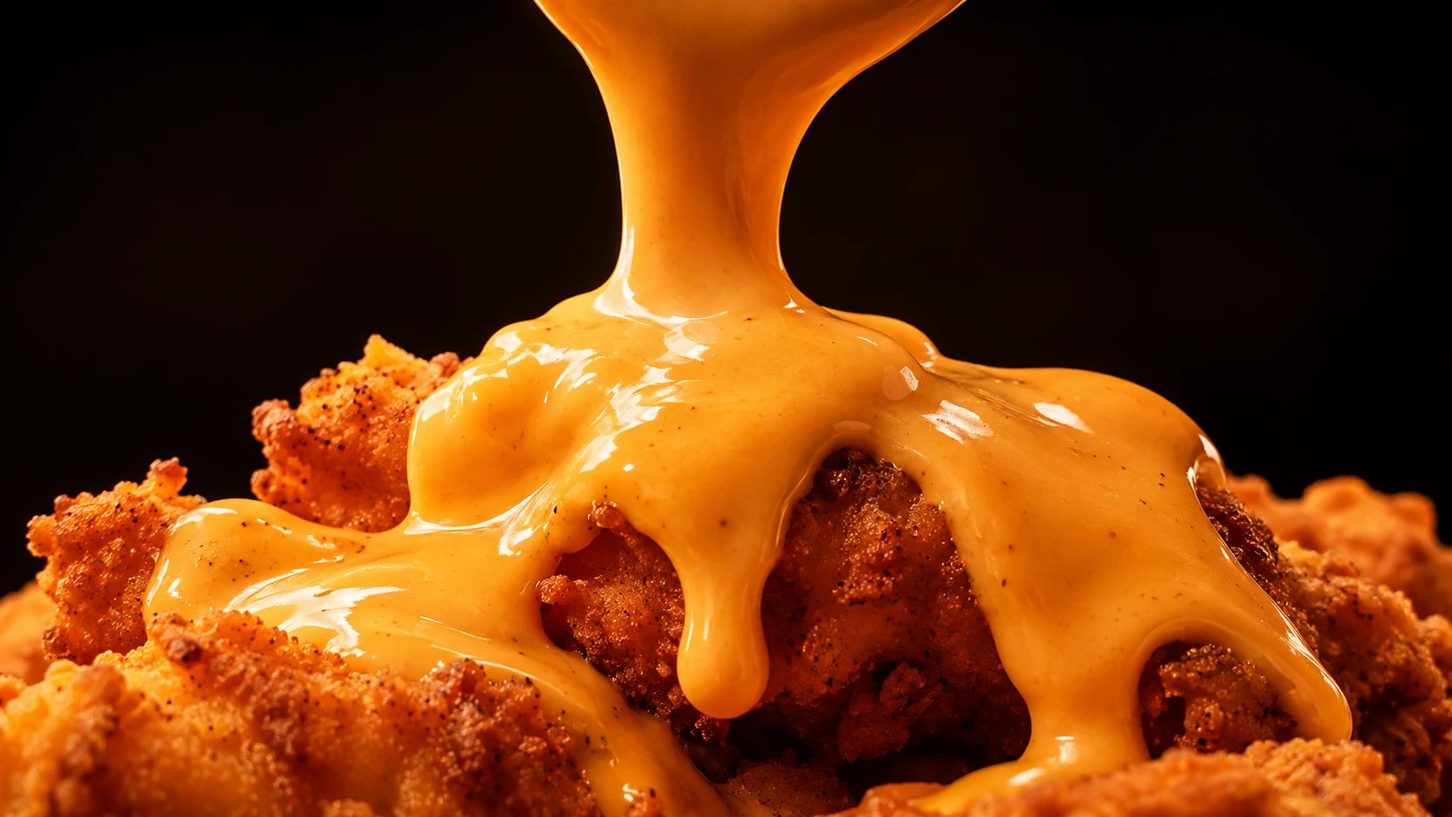
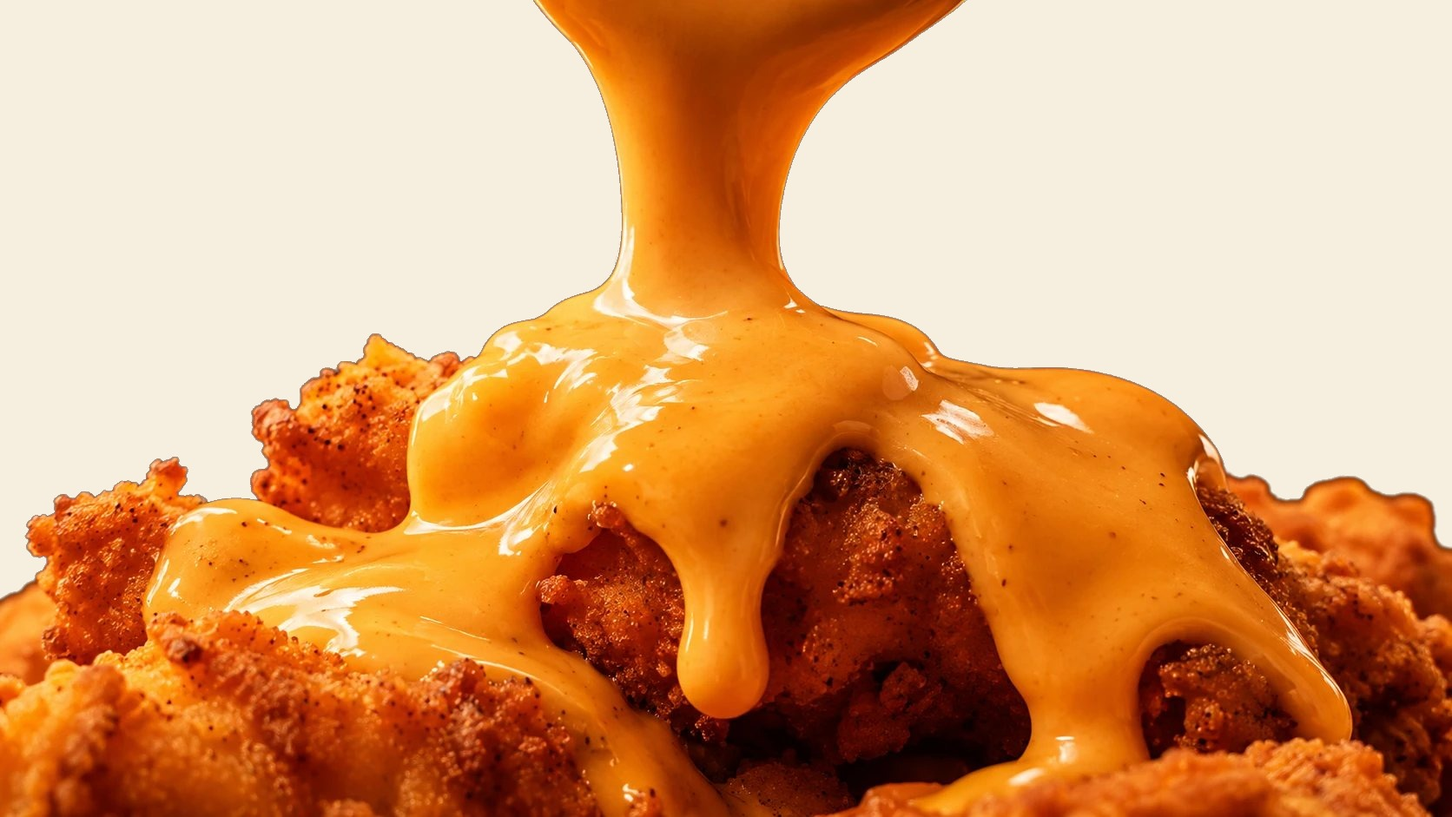
Cream hero background, Blandville teaser with video slot, comparison flipped with bottle images
Claude-Session: https://claude.ai/code/session_01N4eMp3pC1viHzLhvwcyCiG

diff --git a/index.html b/index.html
@@ -58,19 +58,28 @@ img{max-width:100%}
 .hdr .pill{min-height:44px;padding:0 20px;font-size:15px}
 @media (max-width:640px){.hdr nav{display:none}}
 /* hero */
-.hero{position:relative}
+.hero{position:relative;background:var(--cream)}
 .hero .bgw{position:absolute;inset:0;overflow:hidden}
 .hero .bgimg{position:absolute;inset:0;width:100%;height:100%;object-fit:cover;object-position:62% 72%}
-.hero .shade{position:absolute;inset:0;background:linear-gradient(90deg,rgba(20,20,20,.97) 0%,rgba(20,20,20,.88) 32%,rgba(20,20,20,.45) 55%,rgba(20,20,20,0) 72%),linear-gradient(180deg,rgba(20,20,20,.45) 0%,rgba(20,20,20,0) 20%,rgba(20,20,20,0) 78%,rgba(20,20,20,.9) 100%)}
+.hero .shade{position:absolute;inset:0}
+@media (min-width:861px){.hero .bgimg{left:auto;right:0;width:74%;object-position:30% 70%;-webkit-mask-image:linear-gradient(90deg,transparent 0,#000 24%);mask-image:linear-gradient(90deg,transparent 0,#000 24%)}}
 .hero .in{position:relative;z-index:1;display:grid;grid-template-columns:minmax(0,1.3fr) minmax(0,.7fr);align-items:center;gap:24px;min-height:clamp(640px,86vh,820px);padding-top:56px;padding-bottom:56px}
 .hero .copy{display:flex;flex-direction:column;align-items:flex-start;gap:20px}
-.hero h1{font-size:clamp(38px,4.1vw,64px);color:var(--cream);text-shadow:0 3px 0 rgba(90,40,8,.55),0 14px 40px rgba(0,0,0,.7)}
-.hero h1 .amb{color:var(--amber)}
+.hero h1,.dk .hero h1{font-size:clamp(38px,4.1vw,64px);color:var(--ink);text-shadow:none}
 .hero h1 .ln{white-space:nowrap}@media (max-width:860px){.hero h1 .ln{white-space:normal}}
-.hero .sub{margin:0;font-size:19px;line-height:1.5;color:var(--cream);max-width:36ch}
+.hero .sub{margin:0;font-size:19px;line-height:1.5;color:#2E2822;max-width:36ch}
+.hero .spec{color:rgba(20,20,20,.72)}
+.hero .ef input{background:rgba(255,251,243,.92);border-color:rgba(20,20,20,.22);color:var(--ink)}
+.hero .ef input::placeholder{color:rgba(20,20,20,.5)}
+.hero .err{color:#B3261E}
+.hero .micro{color:#5B5348}
+.hero .ok .okh,.hero .ok .q{color:var(--ink)}
+.hero .qs button{background:rgba(255,251,243,.92);border-color:rgba(20,20,20,.2);color:var(--ink)}
+.hero .qs button:hover{background:rgba(242,169,59,.2)}
+.hero .ok .done{color:#8A5300}
 .stage{position:relative;align-self:stretch;min-height:520px}
 .bw{position:absolute;left:50%;bottom:0;height:min(94%,640px);transform:translateX(-50%)}
-.bw .bottle{display:block;height:100%;width:auto;max-width:none;filter:drop-shadow(0 34px 40px rgba(0,0,0,.7)) drop-shadow(0 6px 10px rgba(0,0,0,.5))}
+.bw .bottle{display:block;height:100%;width:auto;max-width:none;filter:drop-shadow(0 30px 36px rgba(60,32,8,.38)) drop-shadow(0 6px 10px rgba(20,20,20,.3))}
 .stats{position:absolute;right:calc(100% - 70px);bottom:8%;display:flex;flex-direction:row-reverse;align-items:center;gap:10px;z-index:2}
 .stk{--s:clamp(132px,11vw,160px);flex:0 0 auto;position:relative;width:var(--s);height:var(--s);border-radius:50%;background:radial-gradient(circle at 35% 30%,#2A2433 0%,#15121C 70%);border:calc(var(--s)*.035) solid #F7832B;box-shadow:0 0 0 calc(var(--s)*.025) #15121C,0 0 0 calc(var(--s)*.055) #FFC23D,0 20px 50px rgba(0,0,0,.55);display:flex;flex-direction:column;align-items:center;justify-content:center;text-align:center;line-height:1;transform:rotate(-10deg)}
 .stk b{font-family:'Shrikhand',Georgia,serif;font-weight:400;font-size:calc(var(--s)*.34);color:#FFF8EE;text-shadow:calc(var(--s)*.018) calc(var(--s)*.018) 0 #D9401F}
@@ -100,9 +109,9 @@ img{max-width:100%}
 .ok .done{margin:0;font-size:17px;color:var(--amber);font-weight:600}
 @media (max-width:560px){.ef{flex-direction:column}.ef input{flex:0 0 auto;width:100%}.ef .pill{width:100%}.qs{grid-template-columns:1fr}}
 /* strip */
-.mq{overflow:hidden;background:var(--cream);color:var(--ink);white-space:nowrap;position:relative;z-index:2}
+.mq{overflow:hidden;background:var(--ink);color:var(--cream);white-space:nowrap;position:relative;z-index:2}
 .mq .t{display:inline-flex;padding:13px 0;animation:mq 46s linear infinite;font-size:15px;font-weight:500}
-.mq .t span{padding:0 18px}.mq .t span:before{content:"\2022";margin-right:18px;color:#c98316}
+.mq .t span{padding:0 18px}.mq .t span:before{content:"\2022";margin-right:18px;color:var(--amber)}
 @keyframes mq{from{transform:translateX(0)}to{transform:translateX(-50%)}}
 @media (prefers-reduced-motion:reduce){.mq .t{animation:none}}
 /* sections */
@@ -110,8 +119,13 @@ img{max-width:100%}
 .cr{background:var(--cream);color:var(--ink)}
 .cr .d,.dk .cr .d{color:var(--ink);text-shadow:none}
 .mark{white-space:nowrap;background:linear-gradient(180deg,transparent 58%,rgba(242,169,59,.75) 58%,rgba(242,169,59,.75) 92%,transparent 92%);padding:0 .06em}
-.cmp{display:grid;grid-template-columns:1fr 1fr;gap:14px;max-width:1040px;margin:clamp(32px,4vw,52px) auto 0}
-@media (max-width:760px){.cmp{grid-template-columns:1fr}}
+.cmp{display:grid;grid-template-columns:1fr 1fr;gap:clamp(14px,2vw,28px);max-width:1240px;margin:clamp(32px,4vw,52px) auto 0}
+.cg{display:flex;align-items:center;gap:clamp(12px,1.6vw,22px)}
+.cg .cc{flex:1;min-width:0}
+.cb{flex:0 0 auto;height:clamp(170px,16vw,240px);width:auto;max-width:none}
+.cb.ours{filter:drop-shadow(0 18px 22px rgba(60,32,8,.3))}
+.cb.theirs{height:clamp(140px,13vw,196px);opacity:.9}
+@media (max-width:760px){.cmp{grid-template-columns:1fr}.cb{height:130px}.cb.theirs{height:100px}.cc .big{font-size:44px}}
 .cc{border-radius:20px;padding:clamp(26px,3vw,40px);display:flex;flex-direction:column;gap:12px;min-height:clamp(0px,18vw,250px)}
 .cc .lb{font-size:16px;font-weight:600;letter-spacing:.02em}
 .cc .big{font-family:'Lilita One',system-ui,sans-serif;font-size:clamp(52px,6vw,84px);line-height:1}
@@ -122,6 +136,13 @@ img{max-width:100%}
 .cc.hero2 .lb{color:var(--amber)}
 .cc.hero2 .big{color:var(--amber)}
 .note{text-align:center;margin:18px 0 0;font-size:14.5px;color:#6E665B}
+/* blandville */
+.bvh{max-width:760px;margin:0 auto;text-align:center;display:flex;flex-direction:column;align-items:center;gap:18px}
+.bvh p{margin:0;font-size:19px;line-height:1.55;color:#3D362E;max-width:52ch}
+.vid{position:relative;max-width:1040px;margin:clamp(32px,4vw,52px) auto 0;aspect-ratio:16/9;border-radius:20px;overflow:hidden;background:var(--ink);box-shadow:0 0 0 2px var(--ink),0 28px 60px rgba(20,20,20,.25)}
+.vid img{display:block;width:100%;height:100%;object-fit:cover}
+.vtag{position:absolute;left:16px;bottom:16px;padding:9px 16px;border-radius:999px;background:rgba(20,20,20,.88);color:var(--cream);font-size:14.5px;font-weight:600}
+#faq{border-top:1px solid rgba(20,20,20,.1)}
 .gary{position:relative;overflow:hidden;background:var(--bg)}
 .gary .in{display:grid;grid-template-columns:minmax(0,1fr) minmax(0,1fr);align-items:center;gap:24px;min-height:clamp(320px,30vw,420px)}
 .gary .tx{display:flex;flex-direction:column;align-items:flex-start;gap:20px;position:relative;z-index:1}
@@ -154,7 +175,7 @@ img{max-width:100%}
 .legaldoc ul{padding-left:22px}
 @media (max-width:860px){
  .hero .in{grid-template-columns:1fr;align-items:start;min-height:0;padding-top:32px;padding-bottom:0;gap:8px}
- .hero .shade{background:linear-gradient(180deg,rgba(20,20,20,.94) 0%,rgba(20,20,20,.86) 52%,rgba(20,20,20,.35) 78%,rgba(20,20,20,.75) 100%)}
+ .hero .shade{background:linear-gradient(180deg,rgba(246,238,223,.96) 0%,rgba(246,238,223,.9) 52%,rgba(246,238,223,.3) 78%,rgba(246,238,223,0) 100%)}
  .stage{min-height:420px}
  .bw{left:60%;height:400px}
  .stats{right:calc(100% - 56px);bottom:6%;flex-direction:column;align-items:flex-end}
@@ -180,7 +201,7 @@ img{max-width:100%}
     <div class="bgw" aria-hidden="true"><img class="bgimg" src="/assets/hero.jpg" alt="" data-slot="hero.jpg"><div class="shade"></div></div>
     <div class="wrap in">
       <div class="copy">
-        <h1 id="h1" class="d"><span class="ln">Your favorite sauce.</span><br><span class="ln">Now with <span class="amb">70g of protein.</span></span></h1>
+        <h1 id="h1" class="d"><span class="ln">Your favorite sauce.</span><br><span class="ln">Now with <span class="mark">70g of protein.</span></span></h1>
         <p class="sub">Restaurant-style chicken sauce made with real honey. 7g protein per serving. Same dinner, more protein.</p>
         <p class="spec"><span>7g protein</span><span>120 calories</span><span>per serving</span></p>
         <div class="signup" data-source="hero" id="signup">
@@ -206,8 +227,8 @@ img{max-width:100%}
     <div class="wrap">
       <h2 id="cmp-h" class="d h2" style="text-align: center">Sauce just had a <span class="mark">glow-up.</span></h2>
       <div class="cmp">
-        <div class="cc muted"><span class="lb">Regular chicken sauce</span><span class="big">0g protein</span><p>Delicious. Contributes nothing.</p></div>
-        <div class="cc hero2"><span class="lb">Toon Sauce Gold Rush</span><span class="big">7g protein</span><p>Same taste. Actually pulls its weight.</p></div>
+        <div class="cg"><img class="cb ours" src="/assets/bottle.png" alt="Toon Sauce Gold Rush bottle" loading="lazy"><div class="cc hero2"><span class="lb">Toon Sauce Gold Rush</span><span class="big">7g protein</span><p>Same taste. Actually pulls its weight.</p></div></div>
+        <div class="cg"><div class="cc muted"><span class="lb">Regular chicken sauce</span><span class="big">0g protein</span><p>Delicious. Contributes nothing.</p></div><img class="cb theirs" src="/assets/other-sauce.png" alt="A plain bottle of regular chicken sauce" loading="lazy"></div>
       </div>
       <p class="note">Per serving.</p>
     </div>
@@ -221,6 +242,21 @@ img{max-width:100%}
         <h2 id="g-h" class="d h2">Every flavor has a Toon.</h2>
         <p>Gold Rush belongs to Gary, a very strong chicken who can&#8217;t say no to anything. His show drops with the sauce.</p>
         <a href="#signup" class="pill js-dibs">Get first dibs</a>
+      </div>
+    </div>
+  </section>
+
+  <!-- SECTION 3b: BLANDVILLE TEASER -->
+  <section id="blandville" class="cr sec" aria-labelledby="bv-h">
+    <div class="wrap">
+      <div class="bvh">
+        <h2 id="bv-h" class="d h2">Something&#8217;s coming out of <span class="mark">Blandville.</span></h2>
+        <p>A perfectly normal town where nothing happens. Gary lives there with his roommate Plain, a boiled chicken breast who has never been excited about anything. That&#8217;s about to change.</p>
+      </div>
+      <!-- VIDEO PLACEHOLDER: swap this block for the "Welcome to Blandville" embed (16:9) when it's produced -->
+      <div class="vid" data-slot="blandville-video">
+        <img src="/assets/blandville.webp" alt="The town of Blandville, illustrated" loading="lazy">
+        <span class="vtag">Episode 1 &#183; Coming soon</span>
       </div>
     </div>
   </section>

diff --git a/privacy.html b/privacy.html
@@ -58,19 +58,28 @@ img{max-width:100%}
 .hdr .pill{min-height:44px;padding:0 20px;font-size:15px}
 @media (max-width:640px){.hdr nav{display:none}}
 /* hero */
-.hero{position:relative}
+.hero{position:relative;background:var(--cream)}
 .hero .bgw{position:absolute;inset:0;overflow:hidden}
 .hero .bgimg{position:absolute;inset:0;width:100%;height:100%;object-fit:cover;object-position:62% 72%}
-.hero .shade{position:absolute;inset:0;background:linear-gradient(90deg,rgba(20,20,20,.97) 0%,rgba(20,20,20,.88) 32%,rgba(20,20,20,.45) 55%,rgba(20,20,20,0) 72%),linear-gradient(180deg,rgba(20,20,20,.45) 0%,rgba(20,20,20,0) 20%,rgba(20,20,20,0) 78%,rgba(20,20,20,.9) 100%)}
+.hero .shade{position:absolute;inset:0}
+@media (min-width:861px){.hero .bgimg{left:auto;right:0;width:74%;object-position:30% 70%;-webkit-mask-image:linear-gradient(90deg,transparent 0,#000 24%);mask-image:linear-gradient(90deg,transparent 0,#000 24%)}}
 .hero .in{position:relative;z-index:1;display:grid;grid-template-columns:minmax(0,1.3fr) minmax(0,.7fr);align-items:center;gap:24px;min-height:clamp(640px,86vh,820px);padding-top:56px;padding-bottom:56px}
 .hero .copy{display:flex;flex-direction:column;align-items:flex-start;gap:20px}
-.hero h1{font-size:clamp(38px,4.1vw,64px);color:var(--cream);text-shadow:0 3px 0 rgba(90,40,8,.55),0 14px 40px rgba(0,0,0,.7)}
-.hero h1 .amb{color:var(--amber)}
+.hero h1,.dk .hero h1{font-size:clamp(38px,4.1vw,64px);color:var(--ink);text-shadow:none}
 .hero h1 .ln{white-space:nowrap}@media (max-width:860px){.hero h1 .ln{white-space:normal}}
-.hero .sub{margin:0;font-size:19px;line-height:1.5;color:var(--cream);max-width:36ch}
+.hero .sub{margin:0;font-size:19px;line-height:1.5;color:#2E2822;max-width:36ch}
+.hero .spec{color:rgba(20,20,20,.72)}
+.hero .ef input{background:rgba(255,251,243,.92);border-color:rgba(20,20,20,.22);color:var(--ink)}
+.hero .ef input::placeholder{color:rgba(20,20,20,.5)}
+.hero .err{color:#B3261E}
+.hero .micro{color:#5B5348}
+.hero .ok .okh,.hero .ok .q{color:var(--ink)}
+.hero .qs button{background:rgba(255,251,243,.92);border-color:rgba(20,20,20,.2);color:var(--ink)}
+.hero .qs button:hover{background:rgba(242,169,59,.2)}
+.hero .ok .done{color:#8A5300}
 .stage{position:relative;align-self:stretch;min-height:520px}
 .bw{position:absolute;left:50%;bottom:0;height:min(94%,640px);transform:translateX(-50%)}
-.bw .bottle{display:block;height:100%;width:auto;max-width:none;filter:drop-shadow(0 34px 40px rgba(0,0,0,.7)) drop-shadow(0 6px 10px rgba(0,0,0,.5))}
+.bw .bottle{display:block;height:100%;width:auto;max-width:none;filter:drop-shadow(0 30px 36px rgba(60,32,8,.38)) drop-shadow(0 6px 10px rgba(20,20,20,.3))}
 .stats{position:absolute;right:calc(100% - 70px);bottom:8%;display:flex;flex-direction:row-reverse;align-items:center;gap:10px;z-index:2}
 .stk{--s:clamp(132px,11vw,160px);flex:0 0 auto;position:relative;width:var(--s);height:var(--s);border-radius:50%;background:radial-gradient(circle at 35% 30%,#2A2433 0%,#15121C 70%);border:calc(var(--s)*.035) solid #F7832B;box-shadow:0 0 0 calc(var(--s)*.025) #15121C,0 0 0 calc(var(--s)*.055) #FFC23D,0 20px 50px rgba(0,0,0,.55);display:flex;flex-direction:column;align-items:center;justify-content:center;text-align:center;line-height:1;transform:rotate(-10deg)}
 .stk b{font-family:'Shrikhand',Georgia,serif;font-weight:400;font-size:calc(var(--s)*.34);color:#FFF8EE;text-shadow:calc(var(--s)*.018) calc(var(--s)*.018) 0 #D9401F}
@@ -100,9 +109,9 @@ img{max-width:100%}
 .ok .done{margin:0;font-size:17px;color:var(--amber);font-weight:600}
 @media (max-width:560px){.ef{flex-direction:column}.ef input{flex:0 0 auto;width:100%}.ef .pill{width:100%}.qs{grid-template-columns:1fr}}
 /* strip */
-.mq{overflow:hidden;background:var(--cream);color:var(--ink);white-space:nowrap;position:relative;z-index:2}
+.mq{overflow:hidden;background:var(--ink);color:var(--cream);white-space:nowrap;position:relative;z-index:2}
 .mq .t{display:inline-flex;padding:13px 0;animation:mq 46s linear infinite;font-size:15px;font-weight:500}
-.mq .t span{padding:0 18px}.mq .t span:before{content:"\2022";margin-right:18px;color:#c98316}
+.mq .t span{padding:0 18px}.mq .t span:before{content:"\2022";margin-right:18px;color:var(--amber)}
 @keyframes mq{from{transform:translateX(0)}to{transform:translateX(-50%)}}
 @media (prefers-reduced-motion:reduce){.mq .t{animation:none}}
 /* sections */
@@ -110,8 +119,13 @@ img{max-width:100%}
 .cr{background:var(--cream);color:var(--ink)}
 .cr .d,.dk .cr .d{color:var(--ink);text-shadow:none}
 .mark{white-space:nowrap;background:linear-gradient(180deg,transparent 58%,rgba(242,169,59,.75) 58%,rgba(242,169,59,.75) 92%,transparent 92%);padding:0 .06em}
-.cmp{display:grid;grid-template-columns:1fr 1fr;gap:14px;max-width:1040px;margin:clamp(32px,4vw,52px) auto 0}
-@media (max-width:760px){.cmp{grid-template-columns:1fr}}
+.cmp{display:grid;grid-template-columns:1fr 1fr;gap:clamp(14px,2vw,28px);max-width:1240px;margin:clamp(32px,4vw,52px) auto 0}
+.cg{display:flex;align-items:center;gap:clamp(12px,1.6vw,22px)}
+.cg .cc{flex:1;min-width:0}
+.cb{flex:0 0 auto;height:clamp(170px,16vw,240px);width:auto;max-width:none}
+.cb.ours{filter:drop-shadow(0 18px 22px rgba(60,32,8,.3))}
+.cb.theirs{height:clamp(140px,13vw,196px);opacity:.9}
+@media (max-width:760px){.cmp{grid-template-columns:1fr}.cb{height:130px}.cb.theirs{height:100px}.cc .big{font-size:44px}}
 .cc{border-radius:20px;padding:clamp(26px,3vw,40px);display:flex;flex-direction:column;gap:12px;min-height:clamp(0px,18vw,250px)}
 .cc .lb{font-size:16px;font-weight:600;letter-spacing:.02em}
 .cc .big{font-family:'Lilita One',system-ui,sans-serif;font-size:clamp(52px,6vw,84px);line-height:1}
@@ -122,6 +136,13 @@ img{max-width:100%}
 .cc.hero2 .lb{color:var(--amber)}
 .cc.hero2 .big{color:var(--amber)}
 .note{text-align:center;margin:18px 0 0;font-size:14.5px;color:#6E665B}
+/* blandville */
+.bvh{max-width:760px;margin:0 auto;text-align:center;display:flex;flex-direction:column;align-items:center;gap:18px}
+.bvh p{margin:0;font-size:19px;line-height:1.55;color:#3D362E;max-width:52ch}
+.vid{position:relative;max-width:1040px;margin:clamp(32px,4vw,52px) auto 0;aspect-ratio:16/9;border-radius:20px;overflow:hidden;background:var(--ink);box-shadow:0 0 0 2px var(--ink),0 28px 60px rgba(20,20,20,.25)}
+.vid img{display:block;width:100%;height:100%;object-fit:cover}
+.vtag{position:absolute;left:16px;bottom:16px;padding:9px 16px;border-radius:999px;background:rgba(20,20,20,.88);color:var(--cream);font-size:14.5px;font-weight:600}
+#faq{border-top:1px solid rgba(20,20,20,.1)}
 .gary{position:relative;overflow:hidden;background:var(--bg)}
 .gary .in{display:grid;grid-template-columns:minmax(0,1fr) minmax(0,1fr);align-items:center;gap:24px;min-height:clamp(320px,30vw,420px)}
 .gary .tx{display:flex;flex-direction:column;align-items:flex-start;gap:20px;position:relative;z-index:1}
@@ -154,7 +175,7 @@ img{max-width:100%}
 .legaldoc ul{padding-left:22px}
 @media (max-width:860px){
  .hero .in{grid-template-columns:1fr;align-items:start;min-height:0;padding-top:32px;padding-bottom:0;gap:8px}
- .hero .shade{background:linear-gradient(180deg,rgba(20,20,20,.94) 0%,rgba(20,20,20,.86) 52%,rgba(20,20,20,.35) 78%,rgba(20,20,20,.75) 100%)}
+ .hero .shade{background:linear-gradient(180deg,rgba(246,238,223,.96) 0%,rgba(246,238,223,.9) 52%,rgba(246,238,223,.3) 78%,rgba(246,238,223,0) 100%)}
  .stage{min-height:420px}
  .bw{left:60%;height:400px}
  .stats{right:calc(100% - 56px);bottom:6%;flex-direction:column;align-items:flex-end}

diff --git a/tools/gen_site.py b/tools/gen_site.py
@@ -37,19 +37,28 @@ img{max-width:100%}
 .hdr .pill{min-height:44px;padding:0 20px;font-size:15px}
 @media (max-width:640px){.hdr nav{display:none}}
 /* hero */
-.hero{position:relative}
+.hero{position:relative;background:var(--cream)}
 .hero .bgw{position:absolute;inset:0;overflow:hidden}
 .hero .bgimg{position:absolute;inset:0;width:100%;height:100%;object-fit:cover;object-position:62% 72%}
-.hero .shade{position:absolute;inset:0;background:linear-gradient(90deg,rgba(20,20,20,.97) 0%,rgba(20,20,20,.88) 32%,rgba(20,20,20,.45) 55%,rgba(20,20,20,0) 72%),linear-gradient(180deg,rgba(20,20,20,.45) 0%,rgba(20,20,20,0) 20%,rgba(20,20,20,0) 78%,rgba(20,20,20,.9) 100%)}
+.hero .shade{position:absolute;inset:0}
+@media (min-width:861px){.hero .bgimg{left:auto;right:0;width:74%;object-position:30% 70%;-webkit-mask-image:linear-gradient(90deg,transparent 0,#000 24%);mask-image:linear-gradient(90deg,transparent 0,#000 24%)}}
 .hero .in{position:relative;z-index:1;display:grid;grid-template-columns:minmax(0,1.3fr) minmax(0,.7fr);align-items:center;gap:24px;min-height:clamp(640px,86vh,820px);padding-top:56px;padding-bottom:56px}
 .hero .copy{display:flex;flex-direction:column;align-items:flex-start;gap:20px}
-.hero h1{font-size:clamp(38px,4.1vw,64px);color:var(--cream);text-shadow:0 3px 0 rgba(90,40,8,.55),0 14px 40px rgba(0,0,0,.7)}
-.hero h1 .amb{color:var(--amber)}
+.hero h1,.dk .hero h1{font-size:clamp(38px,4.1vw,64px);color:var(--ink);text-shadow:none}
 .hero h1 .ln{white-space:nowrap}@media (max-width:860px){.hero h1 .ln{white-space:normal}}
-.hero .sub{margin:0;font-size:19px;line-height:1.5;color:var(--cream);max-width:36ch}
+.hero .sub{margin:0;font-size:19px;line-height:1.5;color:#2E2822;max-width:36ch}
+.hero .spec{color:rgba(20,20,20,.72)}
+.hero .ef input{background:rgba(255,251,243,.92);border-color:rgba(20,20,20,.22);color:var(--ink)}
+.hero .ef input::placeholder{color:rgba(20,20,20,.5)}
+.hero .err{color:#B3261E}
+.hero .micro{color:#5B5348}
+.hero .ok .okh,.hero .ok .q{color:var(--ink)}
+.hero .qs button{background:rgba(255,251,243,.92);border-color:rgba(20,20,20,.2);color:var(--ink)}
+.hero .qs button:hover{background:rgba(242,169,59,.2)}
+.hero .ok .done{color:#8A5300}
 .stage{position:relative;align-self:stretch;min-height:520px}
 .bw{position:absolute;left:50%;bottom:0;height:min(94%,640px);transform:translateX(-50%)}
-.bw .bottle{display:block;height:100%;width:auto;max-width:none;filter:drop-shadow(0 34px 40px rgba(0,0,0,.7)) drop-shadow(0 6px 10px rgba(0,0,0,.5))}
+.bw .bottle{display:block;height:100%;width:auto;max-width:none;filter:drop-shadow(0 30px 36px rgba(60,32,8,.38)) drop-shadow(0 6px 10px rgba(20,20,20,.3))}
 .stats{position:absolute;right:calc(100% - 70px);bottom:8%;display:flex;flex-direction:row-reverse;align-items:center;gap:10px;z-index:2}
 .stk{--s:clamp(132px,11vw,160px);flex:0 0 auto;position:relative;width:var(--s);height:var(--s);border-radius:50%;background:radial-gradient(circle at 35% 30%,#2A2433 0%,#15121C 70%);border:calc(var(--s)*.035) solid #F7832B;box-shadow:0 0 0 calc(var(--s)*.025) #15121C,0 0 0 calc(var(--s)*.055) #FFC23D,0 20px 50px rgba(0,0,0,.55);display:flex;flex-direction:column;align-items:center;justify-content:center;text-align:center;line-height:1;transform:rotate(-10deg)}
 .stk b{font-family:'Shrikhand',Georgia,serif;font-weight:400;font-size:calc(var(--s)*.34);color:#FFF8EE;text-shadow:calc(var(--s)*.018) calc(var(--s)*.018) 0 #D9401F}
@@ -79,9 +88,9 @@ img{max-width:100%}
 .ok .done{margin:0;font-size:17px;color:var(--amber);font-weight:600}
 @media (max-width:560px){.ef{flex-direction:column}.ef input{flex:0 0 auto;width:100%}.ef .pill{width:100%}.qs{grid-template-columns:1fr}}
 /* strip */
-.mq{overflow:hidden;background:var(--cream);color:var(--ink);white-space:nowrap;position:relative;z-index:2}
+.mq{overflow:hidden;background:var(--ink);color:var(--cream);white-space:nowrap;position:relative;z-index:2}
 .mq .t{display:inline-flex;padding:13px 0;animation:mq 46s linear infinite;font-size:15px;font-weight:500}
-.mq .t span{padding:0 18px}.mq .t span:before{content:"\2022";margin-right:18px;color:#c98316}
+.mq .t span{padding:0 18px}.mq .t span:before{content:"\2022";margin-right:18px;color:var(--amber)}
 @keyframes mq{from{transform:translateX(0)}to{transform:translateX(-50%)}}
 @media (prefers-reduced-motion:reduce){.mq .t{animation:none}}
 /* sections */
@@ -89,8 +98,13 @@ img{max-width:100%}
 .cr{background:var(--cream);color:var(--ink)}
 .cr .d,.dk .cr .d{color:var(--ink);text-shadow:none}
 .mark{white-space:nowrap;background:linear-gradient(180deg,transparent 58%,rgba(242,169,59,.75) 58%,rgba(242,169,59,.75) 92%,transparent 92%);padding:0 .06em}
-.cmp{display:grid;grid-template-columns:1fr 1fr;gap:14px;max-width:1040px;margin:clamp(32px,4vw,52px) auto 0}
-@media (max-width:760px){.cmp{grid-template-columns:1fr}}
+.cmp{display:grid;grid-template-columns:1fr 1fr;gap:clamp(14px,2vw,28px);max-width:1240px;margin:clamp(32px,4vw,52px) auto 0}
+.cg{display:flex;align-items:center;gap:clamp(12px,1.6vw,22px)}
+.cg .cc{flex:1;min-width:0}
+.cb{flex:0 0 auto;height:clamp(170px,16vw,240px);width:auto;max-width:none}
+.cb.ours{filter:drop-shadow(0 18px 22px rgba(60,32,8,.3))}
+.cb.theirs{height:clamp(140px,13vw,196px);opacity:.9}
+@media (max-width:760px){.cmp{grid-template-columns:1fr}.cb{height:130px}.cb.theirs{height:100px}.cc .big{font-size:44px}}
 .cc{border-radius:20px;padding:clamp(26px,3vw,40px);display:flex;flex-direction:column;gap:12px;min-height:clamp(0px,18vw,250px)}
 .cc .lb{font-size:16px;font-weight:600;letter-spacing:.02em}
 .cc .big{font-family:'Lilita One',system-ui,sans-serif;font-size:clamp(52px,6vw,84px);line-height:1}
@@ -101,6 +115,13 @@ img{max-width:100%}
 .cc.hero2 .lb{color:var(--amber)}
 .cc.hero2 .big{color:var(--amber)}
 .note{text-align:center;margin:18px 0 0;font-size:14.5px;color:#6E665B}
+/* blandville */
+.bvh{max-width:760px;margin:0 auto;text-align:center;display:flex;flex-direction:column;align-items:center;gap:18px}
+.bvh p{margin:0;font-size:19px;line-height:1.55;color:#3D362E;max-width:52ch}
+.vid{position:relative;max-width:1040px;margin:clamp(32px,4vw,52px) auto 0;aspect-ratio:16/9;border-radius:20px;overflow:hidden;background:var(--ink);box-shadow:0 0 0 2px var(--ink),0 28px 60px rgba(20,20,20,.25)}
+.vid img{display:block;width:100%;height:100%;object-fit:cover}
+.vtag{position:absolute;left:16px;bottom:16px;padding:9px 16px;border-radius:999px;background:rgba(20,20,20,.88);color:var(--cream);font-size:14.5px;font-weight:600}
+#faq{border-top:1px solid rgba(20,20,20,.1)}
 .gary{position:relative;overflow:hidden;background:var(--bg)}
 .gary .in{display:grid;grid-template-columns:minmax(0,1fr) minmax(0,1fr);align-items:center;gap:24px;min-height:clamp(320px,30vw,420px)}
 .gary .tx{display:flex;flex-direction:column;align-items:flex-start;gap:20px;position:relative;z-index:1}
@@ -133,7 +154,7 @@ img{max-width:100%}
 .legaldoc ul{padding-left:22px}
 @media (max-width:860px){
  .hero .in{grid-template-columns:1fr;align-items:start;min-height:0;padding-top:32px;padding-bottom:0;gap:8px}
- .hero .shade{background:linear-gradient(180deg,rgba(20,20,20,.94) 0%,rgba(20,20,20,.86) 52%,rgba(20,20,20,.35) 78%,rgba(20,20,20,.75) 100%)}
+ .hero .shade{background:linear-gradient(180deg,rgba(246,238,223,.96) 0%,rgba(246,238,223,.9) 52%,rgba(246,238,223,.3) 78%,rgba(246,238,223,0) 100%)}
  .stage{min-height:420px}
  .bw{left:60%;height:400px}
  .stats{right:calc(100% - 56px);bottom:6%;flex-direction:column;align-items:flex-end}
@@ -237,7 +258,7 @@ home = f'''
     <div class="bgw" aria-hidden="true"><img class="bgimg" src="{HERO}" alt="" data-slot="hero.jpg"><div class="shade"></div></div>
     <div class="wrap in">
       <div class="copy">
-        <h1 id="h1" class="d"><span class="ln">Your favorite sauce.</span><br><span class="ln">Now with <span class="amb">70g of protein.</span></span></h1>
+        <h1 id="h1" class="d"><span class="ln">Your favorite sauce.</span><br><span class="ln">Now with <span class="mark">70g of protein.</span></span></h1>
         <p class="sub">Restaurant-style chicken sauce made with real honey. 7g protein per serving. Same dinner, more protein.</p>
         <p class="spec"><span>7g protein</span><span>{CALORIES} calories</span><span>per serving</span></p>
         {signup('hero')}
@@ -259,8 +280,8 @@ home = f'''
     <div class="wrap">
       <h2 id="cmp-h" class="d h2" style="text-align: center">Sauce just had a <span class="mark">glow-up.</span></h2>
       <div class="cmp">
-        <div class="cc muted"><span class="lb">Regular chicken sauce</span><span class="big">0g protein</span><p>Delicious. Contributes nothing.</p></div>
-        <div class="cc hero2"><span class="lb">Toon Sauce Gold Rush</span><span class="big">7g protein</span><p>Same taste. Actually pulls its weight.</p></div>
+        <div class="cg"><img class="cb ours" src="/assets/bottle.png" alt="Toon Sauce Gold Rush bottle" loading="lazy"><div class="cc hero2"><span class="lb">Toon Sauce Gold Rush</span><span class="big">7g protein</span><p>Same taste. Actually pulls its weight.</p></div></div>
+        <div class="cg"><div class="cc muted"><span class="lb">Regular chicken sauce</span><span class="big">0g protein</span><p>Delicious. Contributes nothing.</p></div><img class="cb theirs" src="/assets/other-sauce.png" alt="A plain bottle of regular chicken sauce" loading="lazy"></div>
       </div>
       <p class="note">Per serving.</p>
     </div>
@@ -274,6 +295,21 @@ home = f'''
         <h2 id="g-h" class="d h2">Every flavor has a Toon.</h2>
         <p>Gold Rush belongs to Gary, a very strong chicken who can&#8217;t say no to anything. His show drops with the sauce.</p>
         <a href="#signup" class="pill js-dibs">Get first dibs</a>
+      </div>
+    </div>
+  </section>
+
+  <!-- SECTION 3b: BLANDVILLE TEASER -->
+  <section id="blandville" class="cr sec" aria-labelledby="bv-h">
+    <div class="wrap">
+      <div class="bvh">
+        <h2 id="bv-h" class="d h2">Something&#8217;s coming out of <span class="mark">Blandville.</span></h2>
+        <p>A perfectly normal town where nothing happens. Gary lives there with his roommate Plain, a boiled chicken breast who has never been excited about anything. That&#8217;s about to change.</p>
+      </div>
+      <!-- VIDEO PLACEHOLDER: swap this block for the "Welcome to Blandville" embed (16:9) when it's produced -->
+      <div class="vid" data-slot="blandville-video">
+        <img src="/assets/blandville.webp" alt="The town of Blandville, illustrated" loading="lazy">
+        <span class="vtag">Episode 1 &#183; Coming soon</span>
       </div>
     </div>
   </section>

diff --git a/CLAUDE.md b/CLAUDE.md
@@ -15,7 +15,7 @@ The brand was formerly "ProSauce" (theprosauce.com — a separate old site, leav
   bash tools/build.sh
   ```
 - `tools/gen_site.py` writes intermediate `*.dc.html` files (a format from the Claude design canvas used earlier). Images are referenced as `/_blob/<id>`; `tools/build_html.py` has a `BLOBS` map from those IDs to files in `assets/`. **To add a new image:** put the file in `assets/` and reference it directly as `/assets/name.ext` in `gen_site.py` (the `/_blob/` indirection is only needed for the old canvas).
-- Swappable image slots: `assets/hero.jpg` (hero background), `assets/bottle.png` (transparent bottle cutout), `assets/gary-wing.png` (placeholder art — replace with real art). Replace the file, keep the name.
+- Swappable image slots: `assets/hero.jpg` (hero photo; black background replaced with cream #F6EEDF, food untouched; the dark original is `assets/hero-pour2.jpg`), `assets/bottle.png` (transparent bottle cutout), `assets/gary-wing.png` (placeholder art — replace with real art), `assets/other-sauce.png` (generic "regular sauce" bottle in the comparison), `assets/blandville.webp` (poster in the Blandville video slot). Replace the file, keep the name.
 - **Hosting:** Cloudflare Pages project **"toonsauce"**, auto-deploys on push. Custom domains toonsauce.com + www. DNS is on Cloudflare (registrar GoDaddy).
 - **Production branch is `claude/adoring-edison-q8icsx`.** Pushing to any other branch does NOT update the live site. Either push to that branch, or (recommended) change the Cloudflare Pages production branch to `main` and merge there.
 - Deploys take ~1 minute. Verify with `curl -s https://toonsauce.com/ | grep "<something you changed>"`.
@@ -44,7 +44,7 @@ The brand was formerly "ProSauce" (theprosauce.com — a separate old site, leav
 
 ## Current page structure (index.html)
 
-Announcement bar → sticky nav (Gold Rush → `#gold-rush`, Coming soon → `#coming-soon`, "Get first dibs" → focuses hero email) → hero (photo bg, headline "Your favorite sauce. / Now with 70g of protein.", subhead, spec line, email form; bottle + 70g badge right) → cream scrolling strip → `#gold-rush` comparison (cream) → `#coming-soon` "Every flavor has a Toon." (Gary wing) → FAQ (cream) → footer (logo, IG/TikTok/YouTube @toonsauce, email form, Privacy Policy). Cookie notice bottom-left. `/privacy` page.
+Announcement bar → sticky nav (Gold Rush → `#gold-rush`, Coming soon → `#coming-soon`, "Get first dibs" → focuses hero email) → hero (cream bg; food photo on the right ~74% with a left fade on desktop; dark ink text, headline "Your favorite sauce. / Now with 70g of protein." with amber highlight, subhead, spec line, email form; bottle + 70g badge right) → dark scrolling strip → `#gold-rush` comparison (cream; Toon Sauce card left with our bottle beside it, regular sauce card right with a generic bottle) → `#coming-soon` "Every flavor has a Toon." (Gary wing, dark) → `#blandville` teaser (cream; "Something's coming out of Blandville.", Plain intro, 16:9 video placeholder using blandville.webp — swap for the episode embed) → FAQ (cream) → footer (logo, IG/TikTok/YouTube @toonsauce, email form, Privacy Policy). Cookie notice bottom-left. `/privacy` page.
 
 ## Open items / known issues
 
